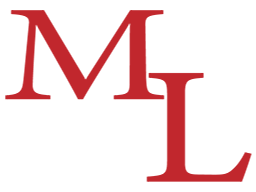
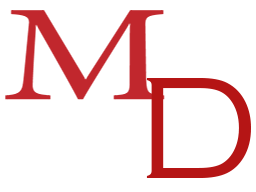
Added screenshots to README
-Fully renamed system from media library to media database
-Screenshots of system now on README

Changed region(s): [[0.5625, 0.375, 1.0, 0.9688]]

diff --git a/media-database.py b/media-database.py
@@ -9,14 +9,14 @@ class MediaDatabase:
         splash_screen.SplashScreen()
 
         window = tk.Tk()  # creates window
-        window.title("Media Library")
+        window.title("Media Database")
         window.configure(bg=style.Style.bg)
         window.geometry("800x400")
         window.call('wm', 'iconphoto', window._w, tk.PhotoImage(file='assets/icon.png'))  # adds favicon to window
-        MainScreen = menu.MainMenu(window)  # creates object for the main menu
+        menu.MainMenu(window)  # creates object for the main menu
 
         window.mainloop()
 
 
 if __name__ == "__main__":
-    x = MediaDatabase()
+    MediaDatabase()

diff --git a/classes/media_filter.py b/classes/media_filter.py
@@ -6,7 +6,7 @@ class MediaFilter(Filter):
         self.main_screen = main_screen
         self.file = file
         super().__init__(file, main_screen)  # gets the variables and methods from parent
-        self.top.title("Media Library - Media Filter")  # changes some of the variables
+        self.top.title("Media Database - Media Filter")  # changes some of the variables
         self.title.configure(text="Media Filter")
         self.filter_btn.configure(command=self.filter)
 

diff --git a/classes/splash_screen.py b/classes/splash_screen.py
@@ -7,7 +7,7 @@ class SplashScreen:
         self.splash_screen = tk.Tk()  # creates a window
         self.width = 800
         self.height = 600
-        self.splash_screen.title("Media Library")
+        self.splash_screen.title("Media Database")
         self.splash_screen.call('wm', 'iconphoto', self.splash_screen._w, tk.PhotoImage(file='assets/icon.png'))
         self.splash_screen.configure(bg=Style.bg)
         # defines attributes of window

diff --git a/classes/author_filter.py b/classes/author_filter.py
@@ -6,7 +6,7 @@ class AuthorFilter(Filter):
         self.main_screen = main_screen
         self.file = file
         super().__init__(file, main_screen)  # gets parnet variables and methods
-        self.top.title("Media Library - Author Filter")
+        self.top.title("Media Database - Author Filter")
         self.title.configure(text="Author Filter")  # changes some of the variables
         self.filter_btn.configure(command=self.filter)
 

diff --git a/classes/help.py b/classes/help.py
@@ -9,7 +9,7 @@ class Help:
         self.height = 600
         self.top = tk.Toplevel()  # creates new form on top of main screen
         self.top.geometry("%dx%d" % (self.width, self.height))  # creates the form
-        self.top.title("Media Library - Help Page")
+        self.top.title("Media Database - Help Page")
         self.top.configure(bg=Style.bg)
         self.page_num = 0
 

diff --git a/classes/delete.py b/classes/delete.py
@@ -9,7 +9,7 @@ class DeleteRecord:
         self.width = 500
         self.height = 400
         self.top = tk.Toplevel()
-        self.top.title("Media Library - Delete Record")
+        self.top.title("Media Database - Delete Record")
         self.top.geometry("%dx%d" % (self.width, self.height))
         self.top.configure(bg=Style.bg)
         # creates the form

diff --git a/classes/edit.py b/classes/edit.py
@@ -10,7 +10,7 @@ class EditRecord:
         self.width = 500
         self.height = 400
         self.top = tk.Toplevel()
-        self.top.title("Media Library - Edit Record")
+        self.top.title("Media Database - Edit Record")
         self.top.geometry("%dx%d" % (self.width, self.height))
         self.top.configure(bg=Style.bg)
         # creates the form

diff --git a/classes/add.py b/classes/add.py
@@ -9,7 +9,7 @@ class AddRecord:
         self.width = 500
         self.height = 400
         self.top = tk.Toplevel()
-        self.top.title("Media Library - Add Record")
+        self.top.title("Media Database - Add Record")
         self.top.geometry("%dx%d" % (self.width, self.height))
         self.top.configure(bg=Style.bg)
         # creates the form

diff --git a/README.md b/README.md
@@ -1,6 +1,33 @@
-# media-database
-A fully python based media database
+# Media Database
+A fully python based media database where users can keep track of the DVDs, CDs, and games that they own.
 
-- Needs syncing with PC
-- Needs a lot of cleaning
+This is a very basic database that stores data after the program quits, and can edit, delete, sort and filter items in the database.
 
+## Screenshots
+Splash Screen:
+
+![Image of the splash screen](assets/display/splash-screen.PNG)
+
+Main Menu
+
+![Image of the main menu](assets/display/menu.PNG)
+
+Add Record
+
+![Image of the add record screen](assets/display/add.PNG)
+
+Edit Record
+
+![Image of the edit record screen](assets/display/edit.PNG)
+
+Delete Record
+
+![Image of the delete record screen](assets/display/delete.PNG)
+
+Media Filter
+
+![Image of the media filter screen](assets/display/media-filter.PNG)
+
+Author Filter
+
+![Image of the author filter screen](assets/display/author-filter.PNG)
